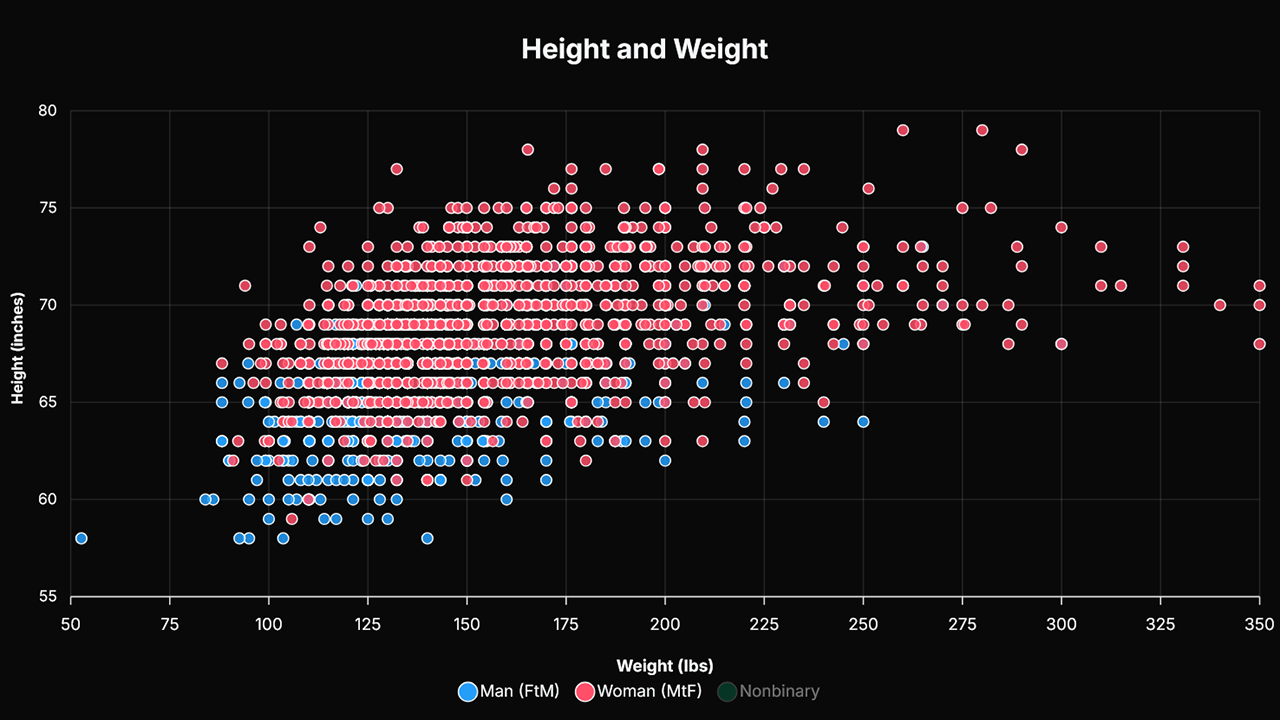
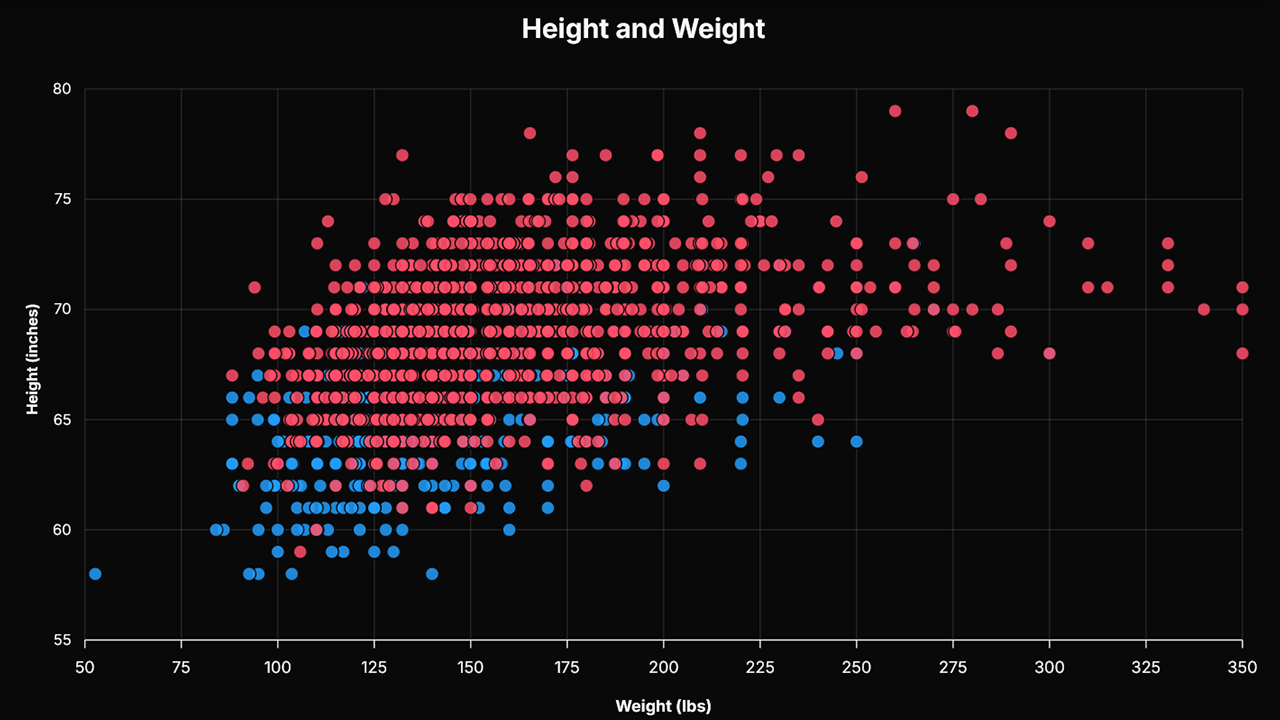
more stuff

diff --git a/src/surveys/4tran2025p2/measurements.ts b/src/surveys/4tran2025p2/measurements.ts
@@ -16,10 +16,17 @@ const infoHeight = $("#info-height") as HTMLElement;
 const infoWeight = $("#info-weight") as HTMLElement;
 const infoBmi = $("#info-bmi") as HTMLElement;
 
-const scatterplotToggle = $("#scatterplot-toggle") as HTMLInputElement;
-const scatterplotEnabled = () => !($("#scatterplot-toggle") as HTMLInputElement).checked;
+const scatterplotChartToggle = $("#scatterplot-show-toggle") as HTMLInputElement;
+const scatterplotChartEnabled = () => !scatterplotChartToggle.checked;
+
+const scatterplotSelfToggle = $("#scatterplot-self-toggle") as HTMLInputElement;
+const scatterplotSelfEnabled = () => !scatterplotSelfToggle.checked;
 
 let chartLoaded = false;
+const scatterChartHeight = $("#height-weight-scatter")!.style.height.replace("px", "")?.parseFloat() ?? 300;
+if (!scatterplotChartEnabled()) {
+    $("#height-weight-scatter")!.style.height = "0";
+}
 
 updateUnitUI(getUnits());
 
@@ -47,7 +54,8 @@ weightInput.addEventListener("input", update);
 weightInput.addEventListener("focus", focusInput);
 weightInput.addEventListener("blur", updateScatterPlot);
 
-scatterplotToggle.addEventListener("change", updateScatterPlot);
+scatterplotChartToggle.addEventListener("change", updateScatterPlot);
+scatterplotSelfToggle.addEventListener("change", updateScatterPlot);
 
 update();
 
@@ -258,18 +266,25 @@ function createScatterPlot() {
             tickAmount: 5,
             min: 55, max: 80,
         },
+        markers: {
+            size: [5, 5, 5, 6],
+            strokeWidth: 1,
+            strokeColors: '#090909',
+        },
     };
-    Charts.createScatterChart("height-weight-scatter", master["height_weight_imperial_scatter"], "Height and Weight", undefined, [2], ['#259efa', '#ff4f69', '#00E396', '#fff'], $("#height-weight-scatter")!.style.height.replace("px", "")?.parseFloat() ?? 300, customOptions);
+    Charts.createScatterChart("height-weight-scatter", master["height_weight_imperial_scatter"], "Height and Weight", undefined, [2], ['#259efa', '#ff4f69', '#00E396', '#fff'], scatterChartHeight, customOptions);
     chartLoaded = true;
 }
 
 function updateScatterPlot() {
-    if (scatterplotEnabled() && !chartLoaded) {
+    if (scatterplotChartEnabled() && !chartLoaded) {
         createScatterPlot();
+        $("#height-weight-scatter")!.style.height = scatterChartHeight + "px";
     }
-    else if (!scatterplotEnabled() && chartLoaded) {
+    else if (!scatterplotChartEnabled() && chartLoaded) {
         ApexCharts.exec("height-weight-scatter", "destroy");
         chartLoaded = false;
+        $("#height-weight-scatter")!.style.height = "0";
         return;
     }
 
@@ -278,20 +293,27 @@ function updateScatterPlot() {
         return;
 
     const xy = [weightInput.value.parseFloat()?.asPounds(getUnits()).roundTo(1), getTotalHeight(getUnits()).asInches(getUnits()).roundTo(1)];
-    const data = [...master["height_weight_imperial_scatter"], {
-        name: "You",
-        data: [xy]
-    }];
-    ApexCharts.exec("height-weight-scatter", "updateOptions", {
-        series: data,
-        annotations: {
+
+    let data = master["height_weight_imperial_scatter"];
+    let annotations = { xaxis: [{}], yaxis: [{}] };
+    if (scatterplotSelfEnabled()) {
+        data = [...master["height_weight_imperial_scatter"], {
+            name: "You",
+            data: [xy]
+        }];
+        annotations = {
             xaxis: [{
                 x: xy[0],
             }],
             yaxis: [{
                 y: xy[1],
             }]
-        },
+        };
+    }
+    console.log(annotations);
+    ApexCharts.exec("height-weight-scatter", "updateOptions", {
+        series: data,
+        annotations: annotations,
         xaxis: {
             tickAmount: 12,
             min: 50, max: 350,

diff --git a/src/charts.ts b/src/charts.ts
@@ -522,6 +522,7 @@ export function createScatterChart(chartId: string, data: any, title: string | u
         },
         series: data,
         xaxis: {
+            tickAmount: 10,
             labels: {
                 show: true
             },
@@ -584,7 +585,9 @@ export function createScatterChart(chartId: string, data: any, title: string | u
             width: 3,    
         },
         markers: {
-            size: 4
+            size: 5,
+            strokeWidth: 1,
+            strokeColors: '#090909',
         },
         colors: colors,
     };

diff --git a/docs/surveys/4tran2025p2/measurements.md b/docs/surveys/4tran2025p2/measurements.md
@@ -10,19 +10,23 @@ image: /assets/surveys/4tran2025p2/thumb-measurements.png
 }
 </script>
 <script type="module" src="/js/surveys/4tran2025p2/measurements.js?v={{ now() }}"></script>
+<script type="module" src="/js/surveys/4tran2025p2/4tran2025p2.js?v={{ now() }}&path=../../../assets/surveys/4tran2025p2/results/"></script>
+
 <style>
 .container {
   display: flex;
   gap: 6px;
   flex-wrap: wrap;
 }
-.container > div {
-  /*background: #141414;
-  padding: 0.5rem 0.5rem;
-  border-radius: 50vw;
-  color: var(--md-typeset-color);
-  font-size: .75rem;
-  font-variation-settings: 'wght' 400;*/
+.center-container {
+  display: flex;
+  gap: 6px;
+  flex-wrap: wrap;
+  justify-content: center;
+}
+.scatterapexchart {
+  min-height: 0 !important;
+  margin-bottom: .5rem;
 }
 .input {
   padding: .15rem;
@@ -123,7 +127,38 @@ image: /assets/surveys/4tran2025p2/thumb-measurements.png
 
 ## Measurements
 
+<div class="chart-set">
+  <input id="height-a" class="vh" type="radio" name="view-height" checked>
+  <input id="height-b" class="vh" type="radio" name="view-height">
+  
+  <div class="chart-stack">
+    <div id="height-pop-pyramid" 
+      class="apexchart chart-layer layer-a"
+      style="height: 500px;"
+      data-chart="pop-pyramid"
+      data-datakey="height_pop_pyramid"
+      data-title="Height"
+      data-subtitle="Population Pyramid"
+      data-bounds="15"
+      >
+    </div>
+    <div id="height-boxplot" 
+      class="apexchart chart-layer layer-b"
+      style="height: 500px;"
+      data-chart="boxplot"
+      data-datakey="height_inches_boxplot"
+      data-subtitle="Box Plot"
+      data-title="Height"
+      >
+    </div>
+  </div>
+  <div class="toggle">
+    <label for="height-a" class="noselect">Population Pyramid</label>
+    <label for="height-b" class="noselect">Box Plot</label>
+  </div>
+</div>
 
+## Calculator
 
 <div class="container">
   <select id="units" class="input" style="width: 10rem;">
@@ -162,17 +197,31 @@ image: /assets/surveys/4tran2025p2/thumb-measurements.png
 ___
 
 
-<div id="height-weight-scatter" style="height: 500px;" class="apexchart"></div>
+<div id="height-weight-scatter" style="height: 550px;" class="scatterapexchart"></div>
 
-<div class="label">Enable Scatter Plot
-  <div class="label-subtitle">May be heavy on mobile</div>
+<div class="center-container">
+  <div class="label" style="width: 8rem;">Show Scatter Plot
+    <div class="label-subtitle">May be heavy on mobile</div>
+  </div>
+  <div style="margin-bottom: 6px; display: flex;">
+    <input type="checkbox" id="scatterplot-show-toggle" class="toggleCheckbox" />
+    <label for="scatterplot-show-toggle" class='toggleContainer'>
+      <div class="noselect" style="margin-right: 16px; margin-left: 16px;">Show</div>   
+      <div class="noselect" style="margin-right: 16px; margin-left: 16px;">Hide</div>
+    </label>
+  </div>
 </div>
-<div style="margin-bottom: 6px; display: flex;">
-  <input type="checkbox" id="scatterplot-toggle" class="toggleCheckbox" />
-  <label for="scatterplot-toggle" class='toggleContainer'>
-    <div class="noselect" style="margin-right: 16px; margin-left: 16px;">Show</div>   
-    <div class="noselect" style="margin-right: 16px; margin-left: 16px;">Hide</div>
-  </label>
+<div class="center-container">
+  <div class="label" style="width: 8rem;">Show Self
+    <div class="label-subtitle">Shows your height/weight</div>
+  </div>
+  <div style="margin-bottom: 6px; display: flex;">
+    <input type="checkbox" id="scatterplot-self-toggle" class="toggleCheckbox" />
+    <label for="scatterplot-self-toggle" class='toggleContainer'>
+      <div class="noselect" style="margin-right: 16px; margin-left: 16px;">Show</div>   
+      <div class="noselect" style="margin-right: 16px; margin-left: 16px;">Hide</div>
+    </label>
+  </div>
 </div>
 
 <!--

diff --git a/docs/surveys/4tran2025p2/index.md b/docs/surveys/4tran2025p2/index.md
@@ -130,7 +130,7 @@ Just like last time, trans men are younger. Theres also fewer older men with kin
   </div>
   <div class="toggle">
     <label for="age-a" class="noselect">Population Pyramid</label>
-    <label for="age-b" class="noselect">Column</label>
+    <label for="age-b" class="noselect">Box Plot</label>
   </div>
 </div>
 
